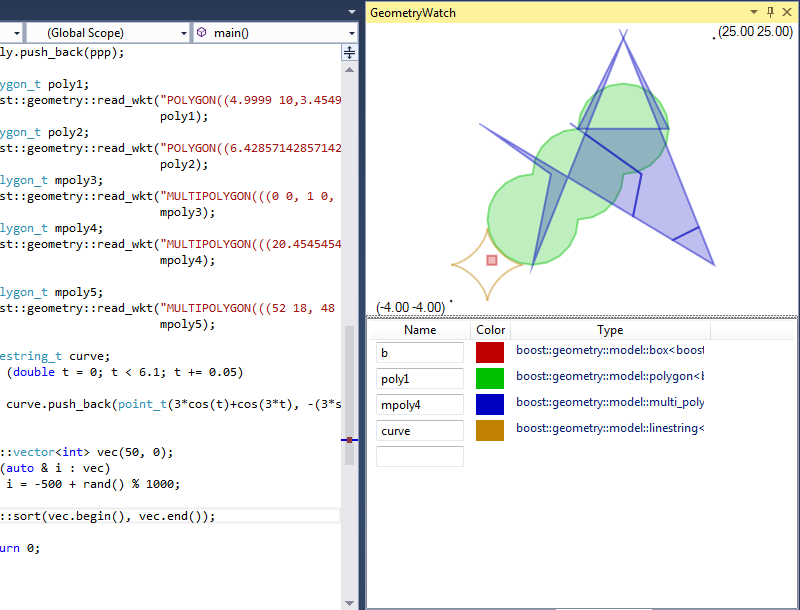
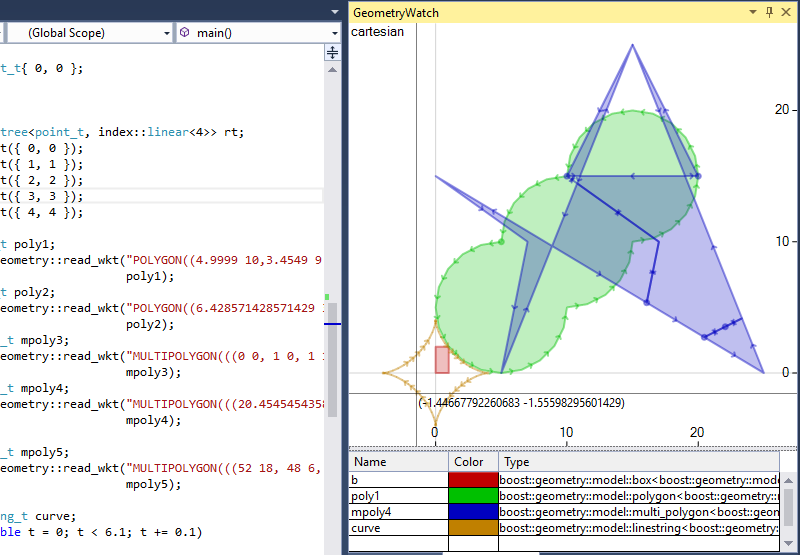
Update readme (new pictures and info about zooming).

diff --git a/README.md b/README.md
@@ -83,7 +83,7 @@ Supported:
 
 Geometries in spherical_equatorial and geographic coordinate systems are displayed in a convenient, compact way.
 
-![GraphicalWatch](images/graphical_watch_sph.png)
+![GraphicalWatchSph](images/graphical_watch_sph.png)
 
 where
 
@@ -109,11 +109,9 @@ Supported:
 
 ![GeometryWatch](images/geometry_watch.png)
 
-![GeometryWatch](images/geometry_watch2.png)
-
 Geometries in spherical_equatorial and geographic coordinate systems are displayed in a way allowing to see what coordinates were used to define a geometry. Note that various libraries may require coordinates in a certain range. This extension tries to display any coordinates as good as possible.
 
-![GraphicalWatch](images/geometry_watch_sph.png)
+![GeometryWatchSph](images/geometry_watch_sph.png)
 
 where
 
@@ -123,6 +121,14 @@ where
                                  {{0, 10},{-15, 20},{-50, 50},{0, 60}}}};
     multi_point_sd_t mpt_sd{{0, 0},{90, 10},{170, 20},{-170, 30}};
 
+###### Zoomig/cropping
+
+GeometryWatch has zooming/cropping feature.
+
+![GeometryWatchZoom](images/geometry_watch_zoom.png)
+
+![GeometryWatchZoomed](images/geometry_watch_zoomed.png)
+	
 ##### Themes
 
 The extension supports Visual Studio themes. The visualization of variables may be drawn in two versions, dark or light depending on the brightness of the theme background color.
